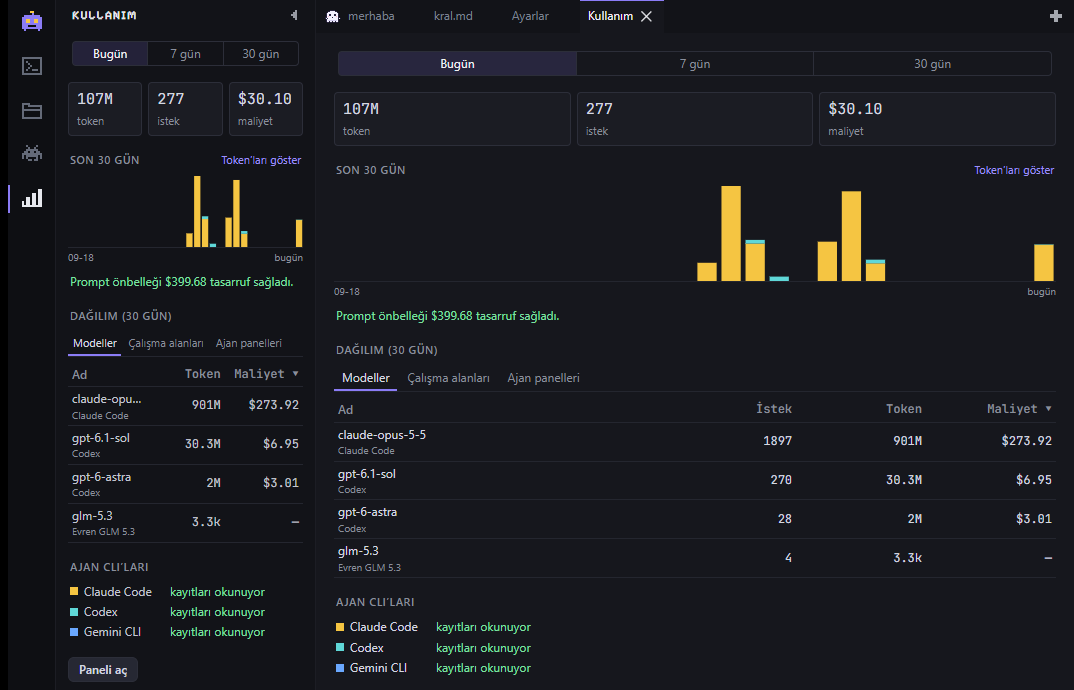
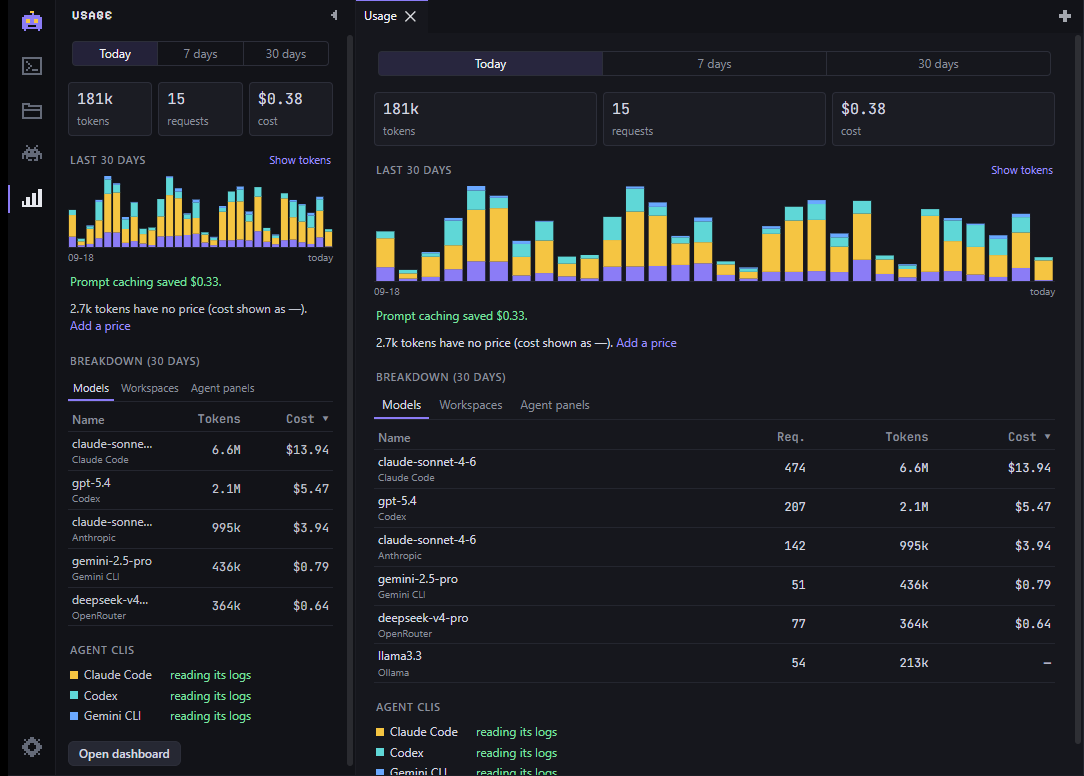
docs: usage screenshot from demo data, AGENTFLOW_DATA_DIR for debug builds
docs/usage.png showed real usage (model names, costs). It is replaced with a
screenshot of the same dashboard over a throwaway demo ledger (generated fake
records, generic workspace names, no keys).

To take it without touching the real app data, debug builds honor
AGENTFLOW_DATA_DIR: settings and app data then live in <dir>/config and
<dir>/data. Release builds ignore it. The README and the other images were
checked; they contain no personal data.

diff --git a/src-tauri/src/lib.rs b/src-tauri/src/lib.rs
@@ -56,8 +56,10 @@ pub fn run() {
             }
         })
         .setup(|app| {
-            let config_dir = app.path().app_config_dir()?;
-            let data_dir = app.path().app_data_dir()?;
+            let (config_dir, data_dir) = match dev_data_dir() {
+                Some(dir) => (dir.join("config"), dir.join("data")),
+                None => (app.path().app_config_dir()?, app.path().app_data_dir()?),
+            };
             manage_stores(app, &config_dir, &data_dir);
             Ok(())
         })
@@ -165,6 +167,16 @@ fn start_usage(app: &tauri::App, settings: &Settings, data_dir: &Path) {
     if let Err(err) = spawned {
         tracing::warn!("usage tracking did not start: {err}");
     }
+}
+
+/// Debug builds only: `AGENTFLOW_DATA_DIR` keeps settings and app data in that folder
+/// instead of the user's, e.g. for demo screenshots or manual tests on throwaway data.
+fn dev_data_dir() -> Option<std::path::PathBuf> {
+    if !cfg!(debug_assertions) {
+        return None;
+    }
+    let dir = std::env::var_os("AGENTFLOW_DATA_DIR").filter(|value| !value.is_empty())?;
+    Some(std::path::PathBuf::from(dir))
 }
 
 fn init_tracing() {
